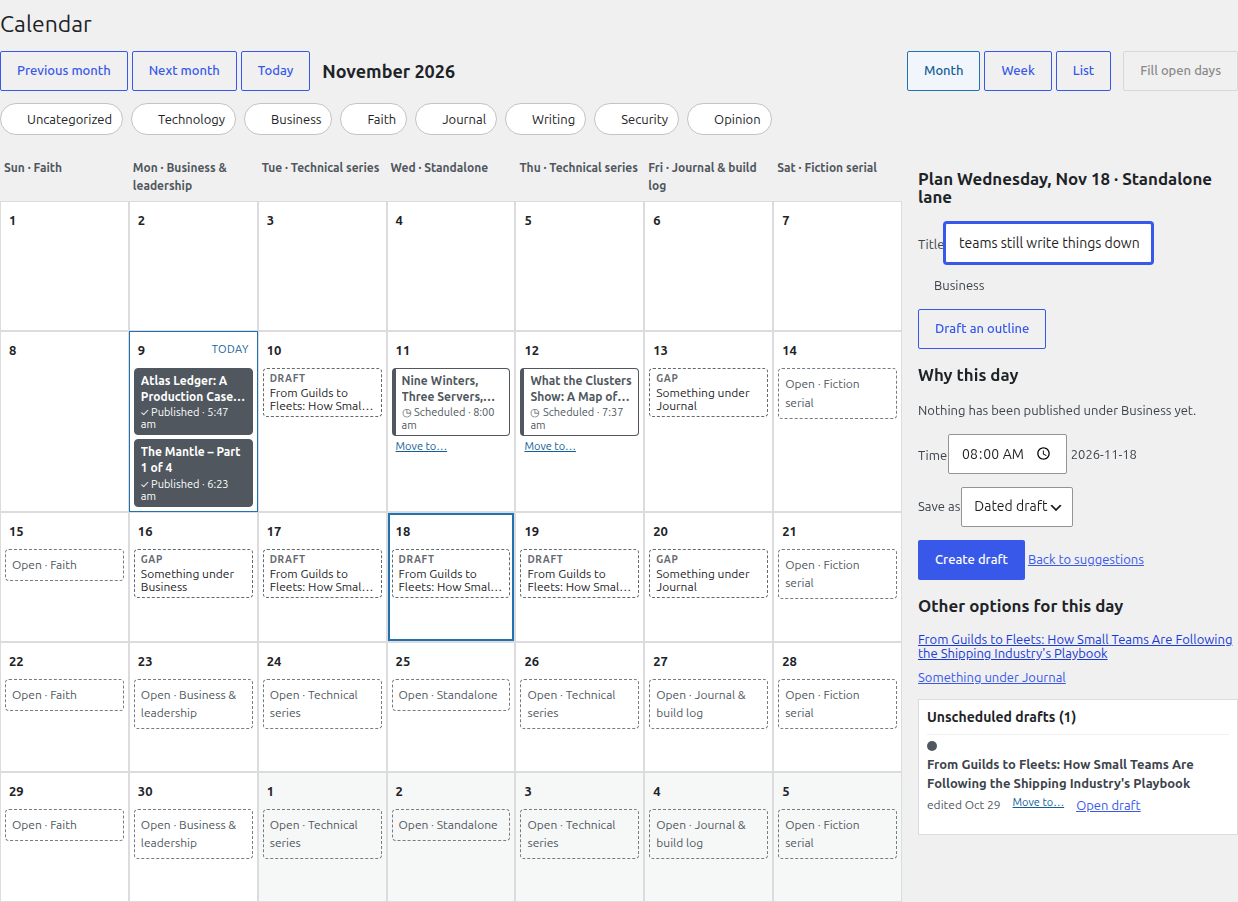
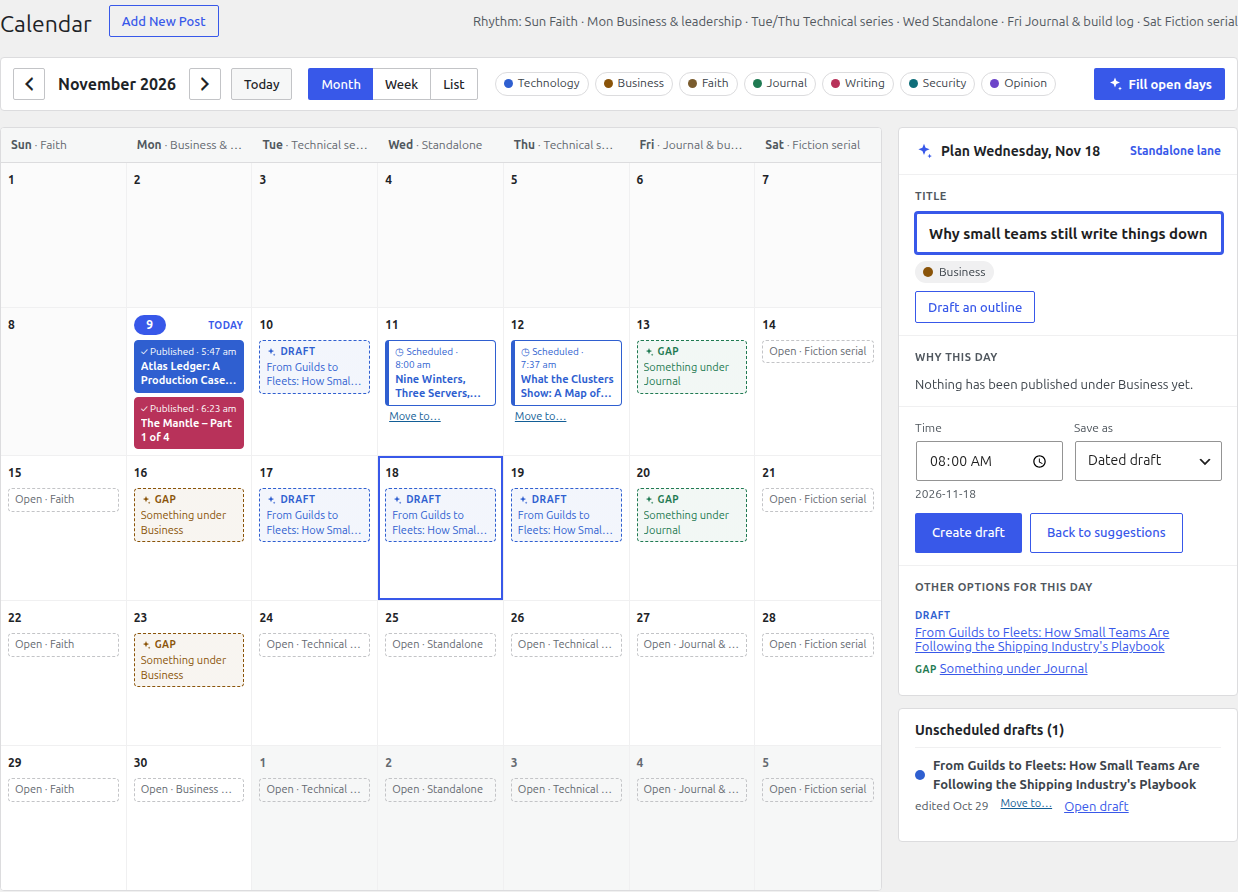
UI-10: README screenshots with a full-viewport hero
Goal: Regenerate the four README screenshots from the polished UI, with calendar-month.png captured as the whole 1440 by 1000 viewport (admin bar and menu included) so it works as a hero image like Main.dc.html.
Tests: tests/e2e/screenshots/capture.spec.js (calendar-month.png is now page.screenshot() of the viewport; every capture waits until the background ghost-card load has finished, so "Fill open days" is never caught disabled mid-run; the settings capture waits for the series terms, which load after first paint and used to clip the Save button). The other three stay cropped to the app root. Before this push: npm run lint, npm run test:unit (182 passed), composer lint, composer test:unit (318 passed), scripts/forbidden-patterns.sh, npm run build, npm run test:e2e (106 passed, 4 skipped), npm run test:integration (139 passed).
Interpretation: none
Manual check: NOT VERIFIED (human): compare docs/screenshots/calendar-month.png with docs/mockups/Main.dc.html side by side at 1440.

diff --git a/tests/e2e/screenshots/capture.spec.js b/tests/e2e/screenshots/capture.spec.js
@@ -17,6 +17,14 @@ test.skip(
 
 test.use( { viewport: { width: 1440, height: 1000 } } );
 
+// Ghost cards load one day at a time in the background; wait until they are done
+// so no screenshot catches "Fill open days" disabled mid-run.
+async function waitForGhosts( page ) {
+	await expect(
+		page.locator( '.masthead-toolbar__fill-note' )
+	).not.toHaveText( /^Suggesting/, { timeout: 60000 } );
+}
+
 test.describe( 'README screenshots', () => {
 	test.beforeAll( () => {
 		seedFixture();
@@ -34,10 +42,15 @@ test.describe( 'README screenshots', () => {
 			.click();
 		await page.waitForSelector( '.masthead-suggestion' );
 		await page.waitForSelector( '.masthead-ghost' );
-		const calendar = page.locator( '#masthead-calendar-root' );
-		await calendar.screenshot( {
+		await waitForGhosts( page );
+		await expect(
+			page.getByRole( 'button', { name: 'Fill open days' } )
+		).toBeEnabled();
+		// The hero image: the whole 1440 by 1000 viewport, admin bar and menu included, like Main.dc.html.
+		await page.screenshot( {
 			path: path.join( OUT, 'calendar-month.png' ),
 		} );
+		const calendar = page.locator( '#masthead-calendar-root' );
 
 		// Day plan for Nov 18.
 		await page
@@ -57,6 +70,7 @@ test.describe( 'README screenshots', () => {
 		await page.goto( `${ CALENDAR }#list` );
 		await page.reload();
 		await page.waitForSelector( '.masthead-list__row' );
+		await waitForGhosts( page );
 		await page
 			.locator( '.masthead-list__row[data-post-id="12156"]' )
 			.click();
@@ -69,6 +83,8 @@ test.describe( 'README screenshots', () => {
 		await page.goto( SETTINGS );
 		await page.waitForSelector( '.masthead-rhythm tbody tr' );
 		await expect( page.getByText( 'Provider: available' ) ).toBeVisible();
+		// Series terms arrive from core-data after first paint and grow the page.
+		await page.waitForSelector( '.masthead-series__item' );
 		await page.locator( '#masthead-settings-root' ).screenshot( {
 			path: path.join( OUT, 'settings.png' ),
 		} );
